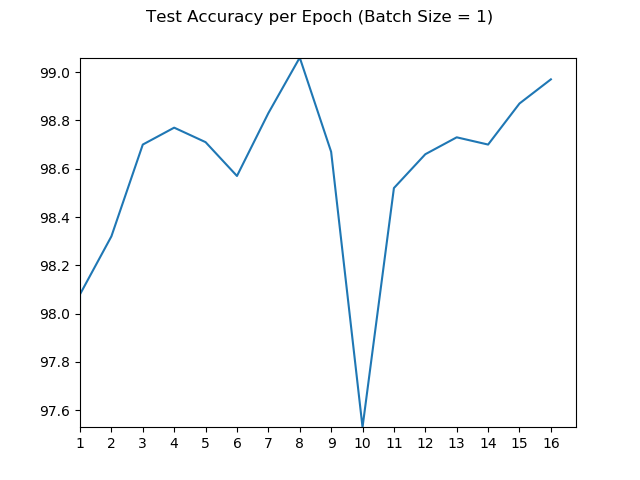
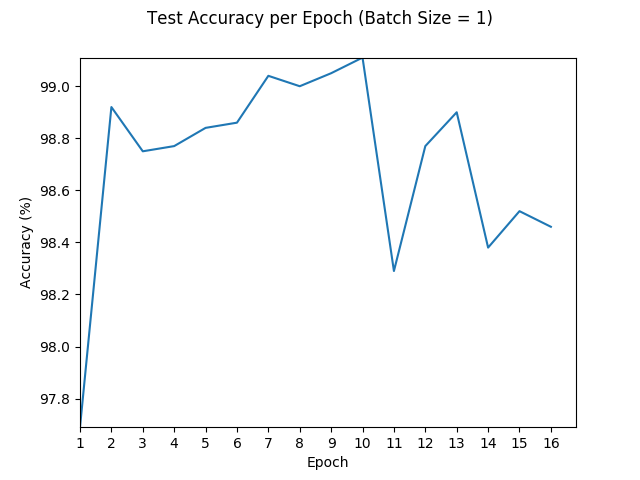
log.txt formatting

diff --git a/customPytorch_cnn.py b/customPytorch_cnn.py
@@ -9,6 +9,36 @@ from PIL import Image
 
 import sys
 
+
+
+arg = sys.argv[1]
+if arg is "negative" or arg is "neg" or arg is "n":
+    writeLoc = "negativeTorchResults"
+    log = open("negativeTorchResults/log.txt", "w")
+    print("Running MNIST Negatives Through CNN")
+    log.writelines("Running MNIST Negatives Through CNN")
+    transform = transforms.Compose(
+                [transforms.ToTensor(),
+                transforms.Lambda(lambda x: invert(x)),
+                transforms.Normalize((0.5,), (1.0,))]
+                )
+elif arg is "standard" or arg is "std" or arg is "s":
+    writeLoc = "torchResults"
+    log = open("torchResults/log.txt", "w")
+    print("Running Standard MNIST Through CNN")
+    log.writelines("Running Standard MNIST Through CNN")
+    transform = transforms.Compose(
+                [transforms.ToTensor(),
+                transforms.Normalize((0.5,), (1.0,))])
+
+exec = sys.argv[2]
+if exec is "debug" or exec is "d":
+    batch_sizes = [1, 2]
+    num_epochs = 4
+elif exec is "test" or exec is "t":
+    batch_sizes = [1, 2, 4, 8, 16, 32]
+    num_epochs = 16
+
 #####################################
 # lamda functions
 def invert(x):
@@ -35,12 +65,12 @@ def plotBatchAccuracy(epoch_accuracy, batchSize): # source: https://stackoverflo
     plt.xlim(left=1)
     plt.ylim(bottom = min(epoch_accuracy), top = max(epoch_accuracy))
     plt.xlabel("Epoch")
-    plt.ylabel("Accuracy (%%)")
+    plt.ylabel("Accuracy (%)")
     fig.suptitle("Test Accuracy per Epoch (Batch Size = %d)" % (batchSize))
-    fig.savefig("negativeTorchResults/testAcc_batchSize_%d.png" % (batchSize))
+    fig.savefig("%s/testAcc_batchSize_%d.png" % (writeLoc, batchSize))
 
 def plotLoss(lossesByEpoch, batchSize):
-    fig = plt.figure()
+    fig = plt.figure(figsize = [7.4, 4.8])
     axs = fig.add_subplot(111)
     for l in lossesByEpoch:
         l.insert(0, 0)
@@ -53,10 +83,10 @@ def plotLoss(lossesByEpoch, batchSize):
     plt.xlabel("Mini-Batch Per Epoch (size 2000)")
     plt.ylabel("Loss")
     fig.suptitle("Training Loss by Epoch (Batch Size = %d)" % (batchSize))
-    fig.savefig('negativeTorchResults/trainLoss_by_epoch_batchSize_%d' % (batchSize))
+    fig.savefig('%s/trainLoss_by_epoch_batchSize_%d' % (writeLoc, batchSize))
 
 def plotAccuracy(trainAccByEpoch, batchSize):
-    fig = plt.figure()
+    fig = plt.figure(figsize = [7.4, 4.8])
     axs = fig.add_subplot(111)
     for a in trainAccByEpoch:
         a.insert(0,0)
@@ -67,9 +97,9 @@ def plotAccuracy(trainAccByEpoch, batchSize):
     plt.xlim(left = 1)
     plt.legend(loc='center left', bbox_to_anchor=(1, 0.5))
     plt.xlabel("Mini-Batch Per Epoch (size 2000)")
-    plt.ylabel("Accuracy (%%)")
+    plt.ylabel("Accuracy (%)")
     fig.suptitle("Training Accuracy by Epoch (Batch Size = %d)" % (batchSize))
-    fig.savefig('negativeTorchResults/trainAcc_by_epoch_batchSize_%d' % (batchSize))
+    fig.savefig('%s/trainAcc_by_epoch_batchSize_%d' % (writeLoc, batchSize))
 
 
 # train on gpu
@@ -91,32 +121,9 @@ print()
 import matplotlib.pyplot as plt
 import numpy as np
 
-arg = sys.argv[1]
-if arg is "negative" or arg is "neg" or arg is "n":
-    log = open("negativeTorchResults/log.txt", "w")
-    print("Running MNIST Negatives Through CNN")
-    log.write("Running MNIST Negatives Through CNN")
-    transform = transforms.Compose(
-                [transforms.ToTensor(),
-                transforms.Lambda(lambda x: invert(x)),
-                transforms.Normalize((0.5,), (1.0,))]
-                )
-else:
-    log = open("negativeTorchResults/log.txt", "w")
-    print("Running Standard MNIST Through CNN")
-    log.write("Running Standard MNIST Through CNN")
-    transform = transforms.Compose(
-                [transforms.ToTensor(),
-                transforms.Normalize((0.5,), (1.0,))])
-
-exec = sys.argv[2]
-if exec is "trial" or exec is "t":
-    batch_sizes = [1, 2]
-    num_epochs = 4
-else:
-    batch_sizes = [1, 2, 4, 8, 16, 32]
-    num_epochs = 16
 for b, batchSize in enumerate(batch_sizes):
+    print("**************** Batch Size = %d ****************" % (batchSize))
+    log.writelines("**************** Batch Size = %d ****************\n" % (batchSize))
 
     trainset = torchvision.datasets.MNIST(root='/home/spencer/Documents/ee569/MNIST', train=True,
                                             download=True, transform=transform)
@@ -237,7 +244,7 @@ for b, batchSize in enumerate(batch_sizes):
             running_loss += loss.item()
             if i % 2000 == 1999:    # print every 2000 mini-batches
                 print('Epoch %d/%d | Mini-Batch %5d | Loss: %.3f | Accuracy: %.3f' % (epoch + 1, num_epochs, i + 1, running_loss / 2000, train_acc))
-                log.write('Epoch %d/%d | Mini-Batch %5d | Loss: %.3f | Accuracy: %.3f' % (epoch + 1, num_epochs, i + 1, running_loss / 2000, train_acc))
+                log.writelines('Epoch %d/%d | Mini-Batch %5d | Loss: %.3f | Accuracy: %.3f\n' % (epoch + 1, num_epochs, i + 1, running_loss / 2000, train_acc))
 
                 losses.append(running_loss/2000)
                 running_loss = 0.0
@@ -268,7 +275,7 @@ for b, batchSize in enumerate(batch_sizes):
                 correct += (predicted == labels).sum().item()
         accuracy = 100 * float(correct / total)
         print('Accuracy of the network on the 10000 test images after epoch %d: %f %%' % (epoch + 1, accuracy))
-        log.write('Accuracy of the network on the 10000 test images after epoch %d: %f %%' % (epoch + 1, accuracy))
+        log.writelines('Accuracy of the network on the 10000 test images after epoch %d: %f %%\n' % (epoch + 1, accuracy))
         epoch_accuracy.append(accuracy)
 
     # plot losses
